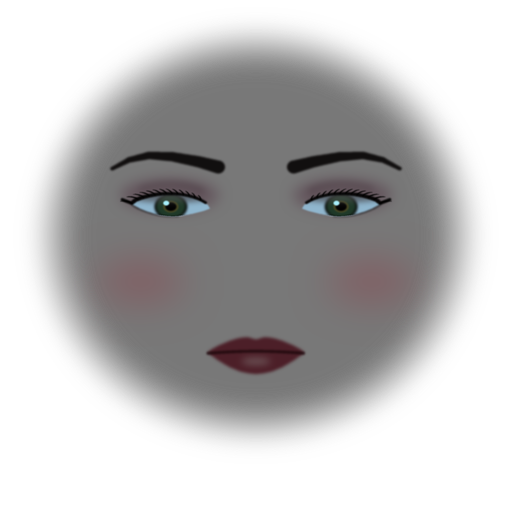
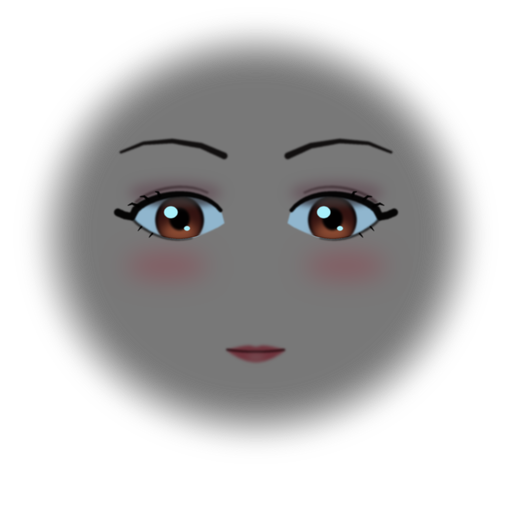
feat(siren): anime pass — big low eyes, a hint of a nose, a V chin, bangs, an exaggerated hourglass
Owner, on the first pass: "looks very ... human ... needs to be more
exaggerated" (references anime-3d.glb and a Mai Shiranui mesh, kept out of
the repo). The face sheet's eyes are ~3x the area and set low with a graded
iris, catchlights and a winged lash line; brows thin and high; the nose is a
soft ridge (every tip cast a black undercut); the lower face tapers to a
short pointed chin; ten pointed bangs. Body: wider hips, heavier thighs, a
bigger bust, a mid-thigh slip so the proportion shows. The reveal and its
pins are unchanged (fangs still buried at rest).

diff --git a/src/lab/sdf-zombie/character-registry.ts b/src/lab/sdf-zombie/character-registry.ts
@@ -489,7 +489,7 @@ export const CHARACTERS: Readonly<Record<string, CharacterEntry>> = {
     // mean MEASURED off the PNG (make-siren-face.py prints it): the game uses
     // it as is, and bakedFace's fallback of 1 would darken her face by half
     // (the sheet's base grey is dark on purpose: make-siren-face.py).
-    face: { ...bakedFace('siren-face.png'), mean: 0.451089 },
+    face: { ...bakedFace('siren-face.png'), mean: 0.453959 },
     profile: motionProfileFor('siren'),
   },
 

diff --git a/scripts/make-siren-face.py b/scripts/make-siren-face.py
@@ -44,11 +44,11 @@ keeps), divided by its semi-axes. hs x and y units differ (71 vs 91 mm), so
 a circle drawn in hs would land 1.28x tall on the face: everything here is
 placed in mm (mm()) and converted, so an iris is round.
 
-  eye almond   x 16..43 mm, y 1.6985 (rel -23.8 mm), outer corner 2 mm up
-  iris         centre x +-29.5 mm, r 5.6 mm
-  brows        ~1.719 (rel -3 mm), x 13..50 mm
-  cheek apple  x 40 mm, y 1.665 (rel -57 mm)
-  mouth line   y 1.635 (rel -87.3 mm), corners x +-16.7 mm (the lip prims)
+  eye          x 11..43 mm, centre line rel -31 mm, 20 mm tall (anime: big, low)
+  iris         centre x +-26.5 mm, rel -29.5 mm, a 17 x 22 mm oval
+  brows        rel +1..+6 mm, x 11..47 mm (thin, high; the bangs graze them)
+  blush        x 31 mm, rel -50 mm, under the eyes
+  mouth line   y 1.635 (rel -87.3 mm; painted at -88.5), corners x +-10 mm
 
 PROJ_SCALE / PROJ_CENTRE must match siren.blob's sheet block exactly.
 
@@ -86,29 +86,37 @@ BASE = 120  # the neutral grey every multiplier scales
 
 # Multipliers on her skin (see HOW IT BLENDS).
 SCLERA = (1.20, 1.52, 1.72)    # -> a warm white (0.98 0.88 0.81)
-SCLERA_SHADE = (0.80, 0.95, 1.10)  # the upper lid's shadow across the white
-IRIS = (0.26, 0.48, 0.34)      # green-hazel
-IRIS_INNER = (0.62, 0.62, 0.30)  # an amber ring round the pupil
-LIMBAL = (0.07, 0.09, 0.08)    # the dark rim of the iris
-PUPIL = (0.02, 0.02, 0.02)
-CATCH = (1.40, 2.00, 2.10)     # the catchlight: clamps to near-white
-INK = (0.02, 0.015, 0.015)     # liner and lashes
+SCLERA_SHADE = (0.72, 0.85, 1.05)  # the upper lid's shadow across the white
+IRIS_DARK = (0.08, 0.04, 0.05)     # the iris top, under the lid
+IRIS = (0.42, 0.16, 0.14)          # garnet
+IRIS_LIGHT = (1.15, 0.62, 0.42)    # the anime glow at the iris foot (amber)
+PUPIL = (0.02, 0.01, 0.01)
+CATCH = (1.40, 2.00, 2.10)     # the catchlights: clamp to near-white
+INK = (0.02, 0.015, 0.015)     # lash line and lashes
 BROW = (0.07, 0.05, 0.05)      # cool near-black brown
-CREASE = (0.55, 0.42, 0.48)    # lid crease
-LID = (0.78, 0.62, 0.70)       # mauve on the lid
-BLUSH = (1.08, 0.78, 0.82)     # rose flush
-LIP = (0.62, 0.22, 0.30)       # rose lips
-LIP_LINE = (0.25, 0.07, 0.10)  # the line where the lips meet
+CREASE = (0.45, 0.32, 0.36)    # the double-lid crease line
+LID = (0.82, 0.62, 0.70)       # mauve on the lid
+BLUSH = (1.12, 0.72, 0.78)     # rose flush under the eyes
+LIP = (0.92, 0.40, 0.48)       # pink mouth
+LIP_LINE = (0.30, 0.08, 0.12)  # the line where the lips meet
 
-# Eye geometry, mm (positive-x eye; mirrored for the other).
-EYE_IN, EYE_OUT = 16.0, 43.0
-EYE_Y = -24.5          # almond centre line at the inner corner, rel cranium centre
-EYE_LIFT = 2.0         # outer corner this much higher
-EYE_HALF_H = 5.4
-IRIS_X, IRIS_Y, IRIS_R = 29.5, -23.6, 5.6
+# Eye geometry, mm (positive-x eye; mirrored for the other). ANIME: the eye
+# is ~3x the first pass's area and sits LOWER on the face (the owner, on the
+# realistic first pass: "needs to be more exaggerated"; references
+# anime-3d.glb and Mai Shiranui): 32 mm wide, 20 mm tall, a big round upper
+# lid over a flatter lower one, the iris a tall oval nearly filling it.
+# (A first anime pass at 29 x 18 mm read big in the sheet but ordinary on
+# the head at 3 m: another ~15%.)
+EYE_IN, EYE_OUT = 11.0, 43.0
+EYE_Y = -31.0          # almond centre line at the inner corner, rel cranium centre
+EYE_LIFT = 2.5         # outer corner this much higher
+EYE_HALF_H = 11.5      # upper lid height above the centre line
+EYE_LOW = 0.72         # the lower lid's depth, as a share of EYE_HALF_H
+IRIS_X, IRIS_Y, IRIS_RX, IRIS_RY = 26.5, -29.5, 8.4, 10.8
+PUPIL_RX, PUPIL_RY = 3.5, 5.0
 MOUTH_Y = -88.5        # 1.2 mm under the prims' 1.635: the head's 4-degree
                        # tilt drops the projection on the lower face
-MOUTH_HALF_W = 16.7
+MOUTH_HALF_W = 10.0    # small: the lip prims are 2.0 cm now
 
 
 def mm(x: float, y: float) -> tuple[float, float]:
@@ -159,9 +167,9 @@ def almond_edge(t: float, upper: bool, grow: float = 0.0) -> tuple[float, float]
     x = EYE_IN + (EYE_OUT - EYE_IN) * t
     yc = EYE_Y + EYE_LIFT * t
     if upper:
-        h = EYE_HALF_H * math.sin(math.pi * t ** 0.85) ** 0.65 + grow
+        h = EYE_HALF_H * math.sin(math.pi * t ** 0.80) ** 0.55 + grow
         return x, yc + h
-    h = 0.80 * EYE_HALF_H * math.sin(math.pi * t ** 1.1) ** 0.8 + grow
+    h = EYE_LOW * EYE_HALF_H * math.sin(math.pi * t ** 1.1) ** 0.8 + grow
     return x, yc - h
 
 
@@ -182,95 +190,101 @@ def almond_mask(grow: float = 0.0) -> Image.Image:
 # Layers: each returns (mask L, multiplier rgb, opacity).
 
 def lid_layers():
-    """Mauve on the lid, darkening into a crease ~5 mm above the lash line."""
+    """A little mauve on the lid, and the double-lid crease: a thin dark arc
+    ~3.5 mm above the lash line, the anime eye's second line."""
     lid, d = new_mask()
-    for s in (1.0, -1.0):
-        ellipse(d, s * 30.0, EYE_Y + 6.0, 17.0, 7.5)
-    lid = blur(lid, 2.2)
+    for s_ in (1.0, -1.0):
+        ellipse(d, s_ * 28.0, EYE_Y + EYE_HALF_H + 2.0, 16.0, 5.0)
+    lid = blur(lid, 2.0)
     crease, dc = new_mask()
-    pts = [almond_edge(t / 10, True, 4.6) for t in range(1, 10)]
+    pts = [almond_edge(0.18 + 0.78 * t / 10, True, 3.6) for t in range(11)]
     for side in both(pts):
-        stroke(dc, side, 1.6, 1.2)
-    crease = blur(crease, 1.2)
-    return [(lid, LID, 0.75), (crease, CREASE, 0.55)]
+        stroke(dc, side, 0.5, 0.9)
+    crease = blur(crease, 0.35)
+    return [(lid, LID, 0.70), (crease, CREASE, 0.80)]
 
 
 def blush_layer():
+    """Anime blush: a soft rose band under each eye, wider than tall."""
     m, d = new_mask()
-    for s in (1.0, -1.0):
-        ellipse(d, s * 40.0, -57.0, 15.0, 10.0)
-    return [(blur(m, 6.0), BLUSH, 0.9)]
+    for s_ in (1.0, -1.0):
+        ellipse(d, s_ * 31.0, -50.0, 14.0, 6.0)
+    return [(blur(m, 4.0), BLUSH, 0.85)]
 
 
 def brow_layer():
+    """Thin, high, gently arched brows (Mai's): well above the eye, so the
+    face reads open and surprised-sweet rather than stern."""
     m, d = new_mask()
-    path = [(13.0, -6.0), (20.0, -3.6), (29.0, -1.4), (37.0, -0.8), (44.0, -2.8), (50.0, -6.8)]
+    path = [(11.0, -1.0), (19.0, 3.5), (29.0, 5.6), (39.0, 4.6), (47.0, 0.5)]
     for side in both(path):
-        stroke(d, side, 4.4, 1.2)
-    return [(blur(m, 0.35), BROW, 0.92)]
+        stroke(d, side, 2.2, 0.8)
+    return [(blur(m, 0.3), BROW, 0.92)]
 
 
 def eye_layers():
-    """Sclera, iris, pupil, catchlight — clipped to the almond."""
+    """Sclera, a graded iris (dark under the lid, glowing amber at its foot),
+    pupil, two catchlights — clipped to the eye."""
     alm = almond_mask()
+    alm_a = np.asarray(alm)
+    clip = lambda m: Image.fromarray(np.minimum(np.asarray(m), alm_a))
     out = [(blur(alm, 0.25), SCLERA, 1.0)]
-    # The upper lid's shadow across the top of the white and iris.
     sh, d = new_mask()
-    for s in (1.0, -1.0):
-        ellipse(d, s * 29.5, EYE_Y + EYE_HALF_H + 1.0, 16.0, 3.4)
-    sh = Image.fromarray(np.minimum(np.asarray(blur(sh, 1.0)), np.asarray(alm)))
-    out.append((sh, SCLERA_SHADE, 0.85))
-    for colour, r in ((LIMBAL, IRIS_R), (IRIS, IRIS_R - 0.7), (IRIS_INNER, 2.6), (PUPIL, 1.9)):
+    for s_ in (1.0, -1.0):
+        ellipse(d, s_ * IRIS_X, EYE_Y + EYE_HALF_H + 1.0, 17.0, 5.0)
+    out.append((clip(blur(sh, 1.0)), SCLERA_SHADE, 0.9))
+    for colour, rx, ry, dy, b in ((IRIS_DARK, IRIS_RX, IRIS_RY, 0.0, 0.3),
+                                  (IRIS, IRIS_RX - 0.9, IRIS_RY - 1.0, -0.6, 0.5),
+                                  (IRIS_LIGHT, IRIS_RX - 2.2, IRIS_RY * 0.42, -IRIS_RY * 0.50, 1.6),
+                                  (PUPIL, PUPIL_RX, PUPIL_RY, 0.4, 0.4)):
         m, d = new_mask()
-        for s in (1.0, -1.0):
-            ellipse(d, s * IRIS_X, IRIS_Y, r, r)
-        m = Image.fromarray(np.minimum(np.asarray(blur(m, 0.25 if r < 3 else 0.45)), np.asarray(alm)))
-        out.append((m, colour, 1.0))
-    # Lid shadow again over the iris (the lid casts onto it too).
-    out.append((sh, (0.70, 0.70, 0.70), 0.55))
+        for s_ in (1.0, -1.0):
+            ellipse(d, s_ * IRIS_X, IRIS_Y + dy, rx, ry)
+        out.append((clip(blur(m, b)), colour, 1.0))
+    # The lid's shadow over the iris top.
+    out.append((clip(blur(sh, 1.0)), (0.55, 0.55, 0.55), 0.6))
     c, d = new_mask()
-    for s in (1.0, -1.0):
-        # The catchlight on the same side for both eyes (one key light).
-        ellipse(d, s * IRIS_X - 1.6, IRIS_Y + 1.6, 1.0, 1.0)
-    out.append((blur(c, 0.2), CATCH, 1.0))
+    for s_ in (1.0, -1.0):
+        # One key light: the big catchlight upper-left on both eyes, a small
+        # one lower-right.
+        ellipse(d, s_ * IRIS_X - 3.0, IRIS_Y + 3.4, 2.3, 2.6)
+        ellipse(d, s_ * IRIS_X + 2.6, IRIS_Y - 3.8, 1.0, 1.0)
+    out.append((blur(c, 0.15), CATCH, 1.0))
     return out
 
 
 def liner_layer():
-    """A firm upper lash line, thickest at the outer third, flicked up past
-    the corner; a soft lower line on the outer half."""
+    """The anime upper lash line: heavy, thickening to the outer corner and
+    flicked out and up past it; a thin lower line on the outer half."""
     m, d = new_mask()
-    n = 18
-    upper = [almond_edge(i / n, True, 0.3) for i in range(1, n + 1)]
+    n = 24
+    upper = [almond_edge(i / n, True, 0.4) for i in range(1, n + 1)]
     ox, oy = upper[-1]
-    upper.append((ox + 3.5, oy + 1.8))
+    upper += [(ox + 2.5, oy + 0.6), (ox + 5.0, oy + 2.0)]
     for side in both(upper):
-        stroke(d, side, 0.9, 1.0)
-    for side in both([almond_edge(1 - i / n * 0.65, True, 0.6) for i in range(n)]):
-        stroke(d, side, 1.2, 0.5)
+        stroke(d, side, 1.3, 2.6)
     lower, dl = new_mask()
-    for side in both([almond_edge(0.4 + 0.6 * i / 10, False, 0.3) for i in range(11)]):
-        stroke(dl, side, 0.3, 0.6)
-    return [(blur(m, 0.25), INK, 0.95), (blur(lower, 0.3), INK, 0.45)]
+    for side in both([almond_edge(0.35 + 0.65 * i / 12, False, 0.3) for i in range(13)]):
+        stroke(dl, side, 0.4, 0.9)
+    return [(blur(m, 0.25), INK, 0.97), (blur(lower, 0.3), INK, 0.70)]
 
 
 def lash_layer():
-    """Upper lashes curling up and out, longer toward the outer corner."""
+    """A few thick lash CLUMPS at the outer corner, swept out (anime lashes
+    are shapes, not hairs), and two short ones under the outer corner."""
     m, d = new_mask()
-    for s in (1.0, -1.0):
-        k = 13
-        for i in range(k):
-            t = 0.12 + 0.88 * i / (k - 1)
-            x, y = almond_edge(t, True, 0.5)
-            length = 1.8 + 2.4 * t
-            ang = math.radians(98 - 62 * t)
-            pts = []
-            for j in range(5):
-                f = j / 4
-                a = ang - 0.45 * f
-                pts.append((x + math.cos(a) * length * f, y + math.sin(a) * length * f))
-            stroke(d, [(s * px_, py_) for px_, py_ in pts], 0.55, 0.15)
-    return [(blur(m, 0.15), INK, 0.9)]
+    for s_ in (1.0, -1.0):
+        for t, length, ang in ((0.70, 2.6, 70), (0.82, 3.4, 45), (0.93, 3.8, 22)):
+            x, y = almond_edge(t, True, 0.8)
+            a = math.radians(ang)
+            pts = [(x, y), (x + math.cos(a) * length * 0.6, y + math.sin(a) * length * 0.6 + 0.3),
+                   (x + math.cos(a - 0.3) * length, y + math.sin(a - 0.3) * length)]
+            stroke(d, [(s_ * px_, py_) for px_, py_ in pts], 1.1, 0.2)
+        for t in (0.78, 0.9):
+            x, y = almond_edge(t, False, 0.5)
+            pts = [(x, y), (x + 1.2, y - 1.8)]
+            stroke(d, [(s_ * px_, py_) for px_, py_ in pts], 0.6, 0.15)
+    return [(blur(m, 0.15), INK, 0.95)]
 
 
 def lip_layers():
@@ -282,22 +296,22 @@ def lip_layers():
     for i in range(41):
         x = -w + 2 * w * i / 40
         t = abs(x) / w
-        h = 7.2 * math.sin(math.pi * (1 - t) / 2) ** 0.8 - 1.4 * math.exp(-(x / (0.13 * w)) ** 2)
-        pts.append(mm(x, MOUTH_Y + max(0.0, h)))
+        h = 3.2 * math.sin(math.pi * (1 - t) / 2) ** 0.8 - 0.7 * math.exp(-(x / (0.15 * w)) ** 2)
+        pts.append(mm(x, MOUTH_Y + 0.9 * t * t + max(0.0, h)))
     for i in range(41):
         x = w - 2 * w * i / 40
         t = abs(x) / w
-        h = 9.6 * math.sin(math.pi * (1 - t) / 2) ** 0.9
-        pts.append(mm(x, MOUTH_Y - h))
+        h = 4.4 * math.sin(math.pi * (1 - t) / 2) ** 0.9
+        pts.append(mm(x, MOUTH_Y + 0.9 * t * t - h))
     d.polygon(pts, fill=255)
     line, dl = new_mask()
     lp = []
     for i in range(31):
         x = -w + 2 * w * i / 30
-        lp.append((x, MOUTH_Y + 0.5 * math.cos(math.pi * x / (2 * w)) - 0.4 * (x / w) ** 2))
-    stroke(dl, lp, 0.9, 0.9)
+        lp.append((x, MOUTH_Y + 0.3 * math.cos(math.pi * x / (2 * w)) + 1.2 * (x / w) ** 2))  # corners up: a small smile
+    stroke(dl, lp, 0.7, 0.7)
     hi, dh = new_mask()
-    ellipse(dh, 0.0, MOUTH_Y - 4.0, 5.0, 1.6)
+    ellipse(dh, 0.0, MOUTH_Y - 2.2, 3.0, 1.0)
     return [(blur(m, 0.5), LIP, 0.95), (blur(line, 0.35), LIP_LINE, 0.85), (blur(hi, 1.2), (1.05, 0.95, 0.95), 0.6)]
 
 

diff --git a/.claude/skills/authoring-sdf-characters/biomech-style.md b/.claude/skills/authoring-sdf-characters/biomech-style.md
@@ -135,6 +135,21 @@ read attractive, turn each lever the other way. What worked, in order of how muc
   through the zombie mind's unarmed swing (`attack.ts` `swingGapeAt`), with needle fangs buried >= 2 mm inside the
   rest face (pinned by `siren-blob.test.ts`), so they own no paint until the jaw drops.
 
+### Anime, not realistic (the siren's second pass)
+
+"Attractive" built from realistic proportions read to the owner as a plain human woman ("not what we are going for
+— it needs to be more exaggerated"). The roster's beauty is STYLISED. What moved it:
+
+- **Eyes are the face.** ~3x the area of a realistic eye (32 x 20 mm), set LOW (centre ~3 cm under the cranium's
+  centre), a tall iris graded dark-under-the-lid to a glowing foot, two catchlights, a heavy winged upper lash line
+  and a crease line; thin brows set high. All sheet paint. Judge size on the HEAD, not on the sheet: hs y units are
+  1.28x x units, so a sheet preview looks squat.
+- **Delete the nose.** Every nose tip, however small, stood over an undercut the shading filled black. A soft 1.6 cm
+  ridge is all an anime face draws. Flatten between the eyes too (no nasal-root fill).
+- **Widest at the cheekbones, V to the chin.** Narrow the bottom of the face masses, lift and shrink the chin.
+- **Bangs are pointed flat cones** (r 0.012 -> 0.001, deep 0.6) off the crown's front edge, ending AT the brows.
+- **Show the proportion the dress would hide**: a mid-thigh hem, so wide hips and heavy thighs read.
+
 ## Porting a face onto a new body
 
 - The cyberbride's glow eyes sat 1.5 cm ABOVE the flat face mask's painted sockets and stood 2 cm proud, which

diff --git a/docs/dev-notes/2026-10-23-siren/NOTES.md b/docs/dev-notes/2026-10-23-siren/NOTES.md
@@ -28,3 +28,12 @@ Top: face at rest, side, and at full gape (0.85 rad, `BLOB_GAPE=0.85`). Bottom: 
 
 - Her own lunge/bite: the zombie hook bends her double and hides the face at the moment it opens.
 - The reveal at a playable distance in game (captures so far are close and the gun covers her face).
+
+## Anime pass (2026-10-23, owner feedback: "too human, needs to be more exaggerated")
+
+![anime pass 1](contact-anime-1.png)
+
+References: `anime-3d.glb` and a Mai Shiranui mesh (the owner's ~/Downloads). Third-party characters, so they are
+NOT committed and were not baked or measured into the file; read once for proportion (anime-3d: hips 0.23 of height
+across over a 0.15 waist; head ~0.12 of height; the face in the lower ~45% of the head). See biomech-style.md
+"Anime, not realistic".
